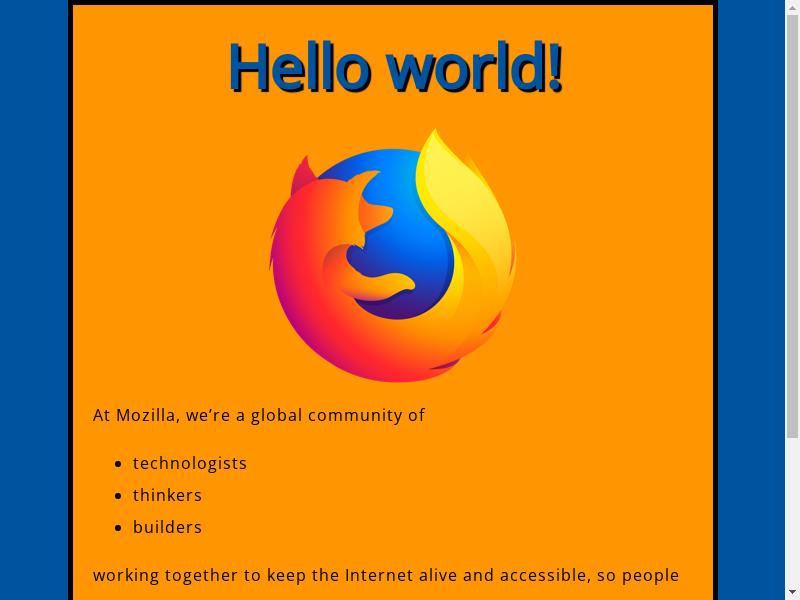
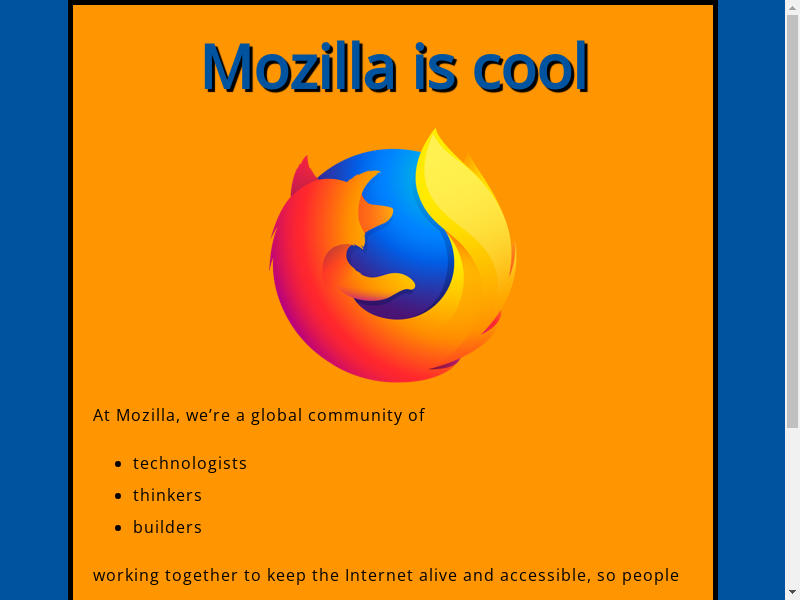
added javascript

Changed region(s): [[0.25, 0.06, 0.75, 0.18], [0.9688, 0.72, 1.0, 0.75]]

diff --git a/beginner-html-site-styled-gh-pages/scripts/main.js b/beginner-html-site-styled-gh-pages/scripts/main.js
@@ -1,2 +1,30 @@
-const myHeading = document.querySelector("h1");
-myHeading.textContent = "Hello world!";
+const myImage = document.querySelector('img');
+
+myImage.onclick = () => {
+  const mySrc = myImage.getAttribute('src');
+  if (mySrc === 'images/firefox-icon.png') {
+  	myImage.setAttribute('src', 'images/firefox2.png');
+  } else {
+  	myImage.setAttribute('src', 'images/firefox-icon.png');
+  }
+};
+
+const myButton = document.querySelector('button');
+const myHeading = document.querySelector('h1');
+
+function setUserName () {
+  const myName = prompt('Please enter your name');
+  localStorage.setItem('name', myName);
+  myHeading.textContent = 'Mozilla is cool, ${myName}';
+}
+
+if (!localStorage.geItem('name')) {
+  setUserName();
+} else {
+  const storedName = localStorage.getItem('name');
+  myHeading.textContent = 'Mozilla is cool, ${storedName}';
+}
+
+myButton.onclick = () => {
+  setUserName();
+};

diff --git a/beginner-html-site-styled-gh-pages/index.html b/beginner-html-site-styled-gh-pages/index.html
@@ -21,6 +21,7 @@
     <p>working together to keep the Internet alive and accessible, so people worldwide can be informed contributors and creators of the Web. We believe this act of human collaboration across an open platform is essential to individual growth and our collective future.</p>
 
     <p>Read the <a href="https://www.mozilla.org/en-US/about/manifesto/">Mozilla Manifesto</a> to learn even more about the values and principles that guide the pursuit of our mission.</p>
+    <button>Change user</button>
     <script src="scripts/main.js"></script>
   </body>
 </html>
